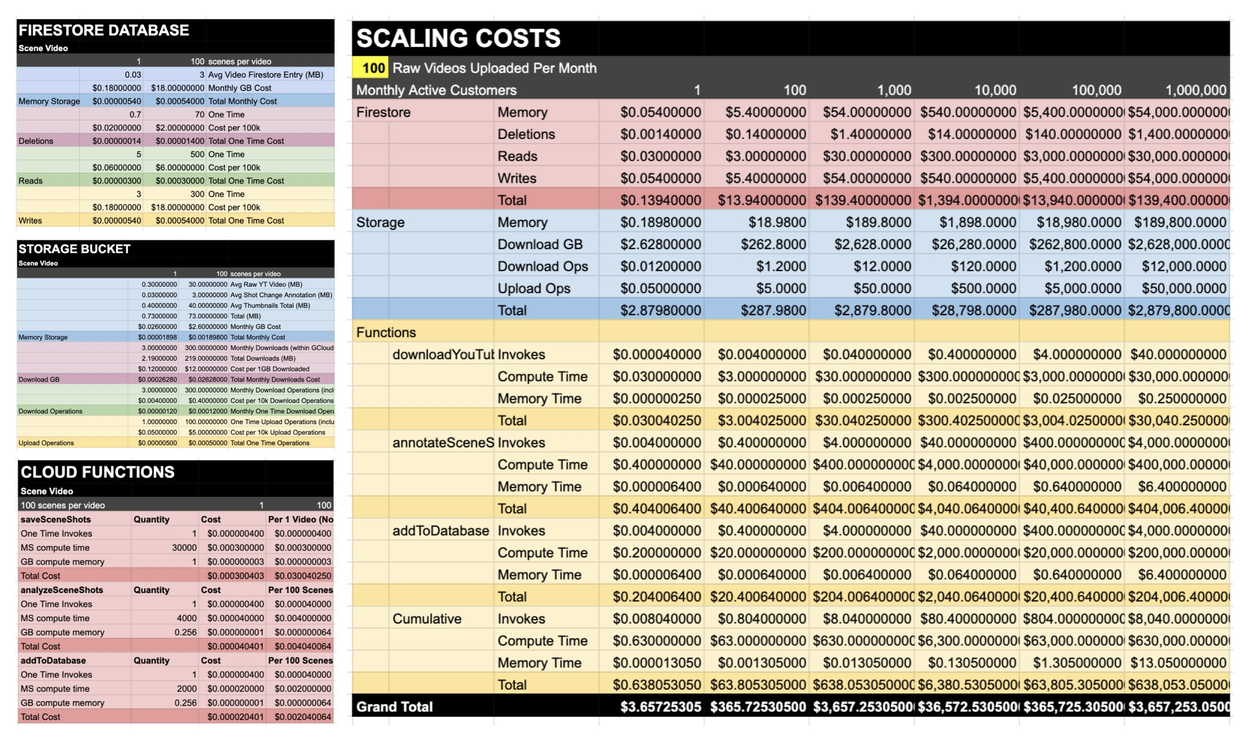
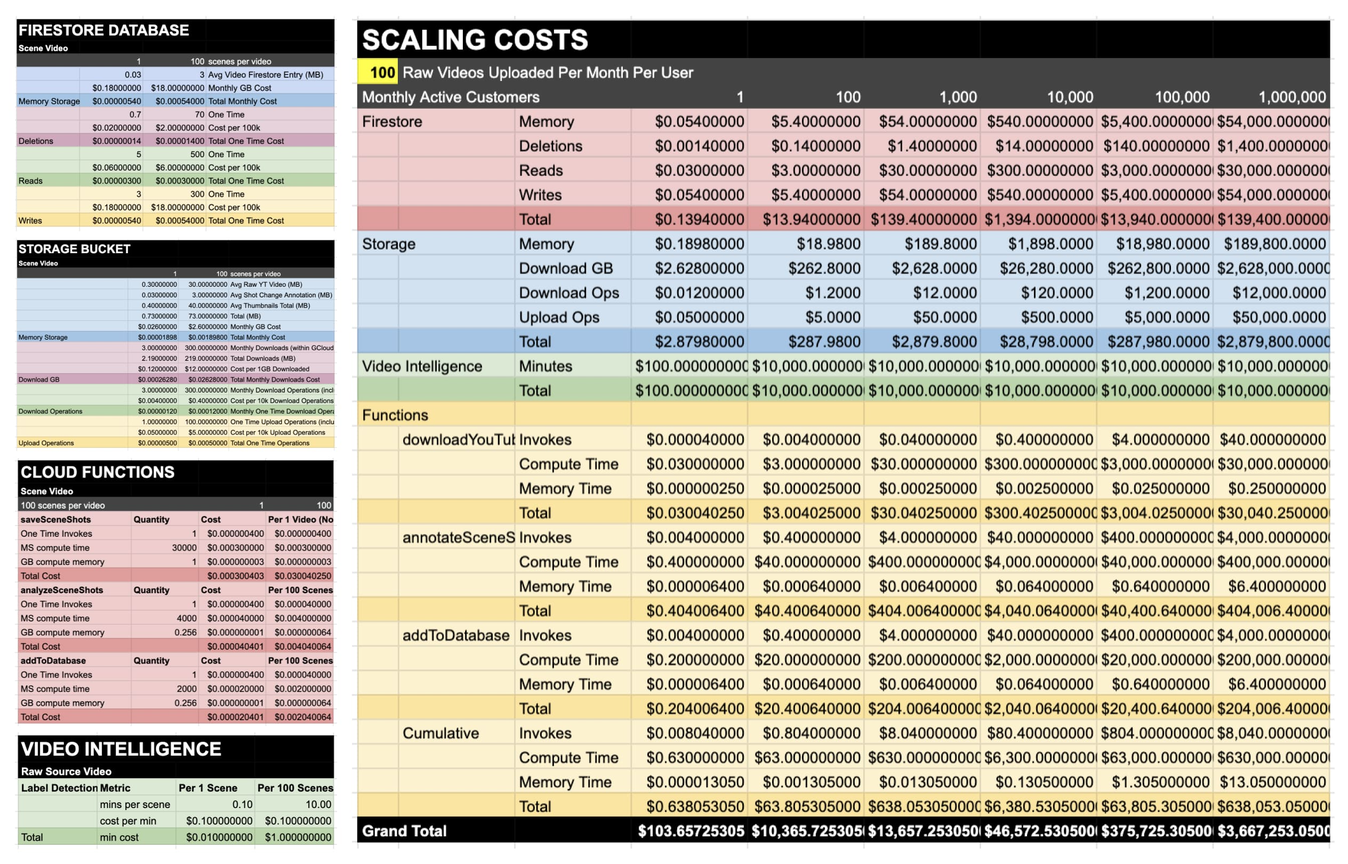
added the cost of the video intelligence api

diff --git a/README.md b/README.md
@@ -65,6 +65,8 @@ gcloud config unset auth/impersonate_service_account
 
 
 ## To Do
+1. Move the scene saving to upload in parallel
+2. Consider refactoring the order of video annotation to save costs (since shot detection is free with labeling)
 3. Clean up code to be more readable
 4. Move out dev API keys to firebase-style environment variables
 5. Test it in production
